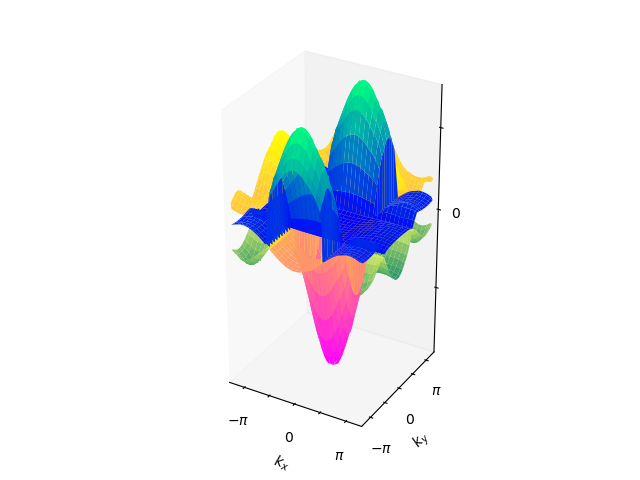
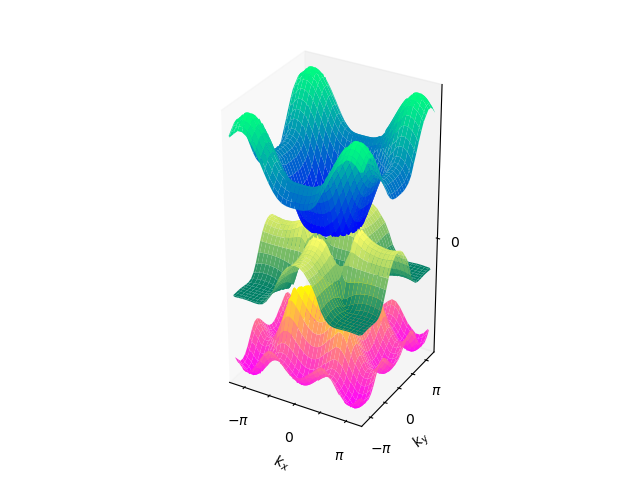
test

Changed region(s): [[0.3438, 0.125, 0.6875, 0.875], [0.6875, 0.5, 0.7188, 0.5312], [0.6875, 0.4375, 0.7188, 0.4688]]

diff --git a/square.py b/square.py
@@ -27,53 +27,44 @@ lowest_quasi_energy = -np.pi
 
 # BLOCH HAMILTONIAN
 H = square_hamiltonian_driven(
-    delta_aa=delta_A,
-    delta_bb=delta_B,
-    delta_cc=delta_C,
-    J_bb_1x=J_1,
-    J_bc_1x=J_1,
-    J_cc_1x=J_1,
-    J_aa_1y=J_1,
-    J_ac_1y=J_1,
-    J_cc_1y=J_1,
-    J_aa_2=J_2,
-    J_ab_2=J_2,
-    J_ac_2=J_2,
-    J_bb_2=J_2,
-    J_bc_2=J_2,
-    J_cc_2=J_2,
-    A_x=A_x,
-    omega=omega
+    delta_aa=0,
+    delta_bb=0,
+    delta_cc=0,
+    delta_ab=1,
+    delta_ac=1,
+    delta_bc=1,
+    J_bc_1x=1,
+    J_ac_1y=1
 )
 
 # BANDSTRUCTURE
-#energies, blochvectors = compute_bandstructure2D(H, a_1, a_2, num_points, omega,
-#                                                 num_steps, lowest_quasi_energy)
+energies, blochvectors = compute_bandstructure2D(H, a_1, a_2, num_points, omega,
+                                                 num_steps, lowest_quasi_energy)
 
-#plot_bandstructure2D(energies, a_1, a_2, 'test.png', bands_to_plot = [1,1,1], 
-#                     lowest_quasi_energy=lowest_quasi_energy, 
-#                     discontinuity_threshold = 0.05)
+plot_bandstructure2D(energies, a_1, a_2, 'test.png', bands_to_plot = [1,1,1], 
+                     lowest_quasi_energy=lowest_quasi_energy, 
+                     discontinuity_threshold = 0.05)
 
 # ZAK PHASES
 
-for i in range(100):
-    start = np.array([0,i / 100])
-    end = np.array([1,i / 100])
-    k = i / 100 * 2
+#for i in range(100):
+#    start = np.array([0,i / 100])
+#    end = np.array([1,i / 100])
+#    k = i / 100 * 2
 
-    offsets = np.zeros((3,2))
-    zak_phase, energies = compute_zak_phase(H, a_1, a_2, offsets, start, end, num_points, 
-                                omega, num_steps, lowest_quasi_energy)
-    zak_phase = np.rint(np.real(zak_phase / np.pi))
+#    offsets = np.zeros((3,2))
+#    zak_phase, energies = compute_zak_phase(H, a_1, a_2, offsets, start, end, num_points, 
+#                                omega, num_steps, lowest_quasi_energy)
+#    zak_phase = np.rint(np.real(zak_phase / np.pi))
 
-    fig = plt.figure()
-    plt.plot(energies[:,0], label='band 0')
-    plt.plot(energies[:,1], label='band 1')
-    plt.plot(energies[:,2], label='band 2')
-    plt.legend()
-    plt.title('$k_y  = {k}\pi$ Zak Phases: {zak_phase}'.format(k=k, zak_phase=zak_phase))
-    plt.savefig('figures/square/square_Ax_J2_dC_1p5_0p8_0p0_yslices/square_Ax_J2_dC_1p5_0p0_0p5_yslice{i}'.format(i=i))
-    plt.close()
+#    fig = plt.figure()
+#    plt.plot(energies[:,0], label='band 0')
+#    plt.plot(energies[:,1], label='band 1')
+#    plt.plot(energies[:,2], label='band 2')
+#    plt.legend()
+#    plt.title('$k_y  = {k}\pi$ Zak Phases: {zak_phase}'.format(k=k, zak_phase=zak_phase))
+#    plt.savefig('figures/square/square_Ax_J2_dC_1p5_0p8_0p0_yslices/square_Ax_J2_dC_1p5_0p0_0p5_yslice{i}'.format(i=i))
+#    plt.close()
 
 # DIRAC STRINGS
 
